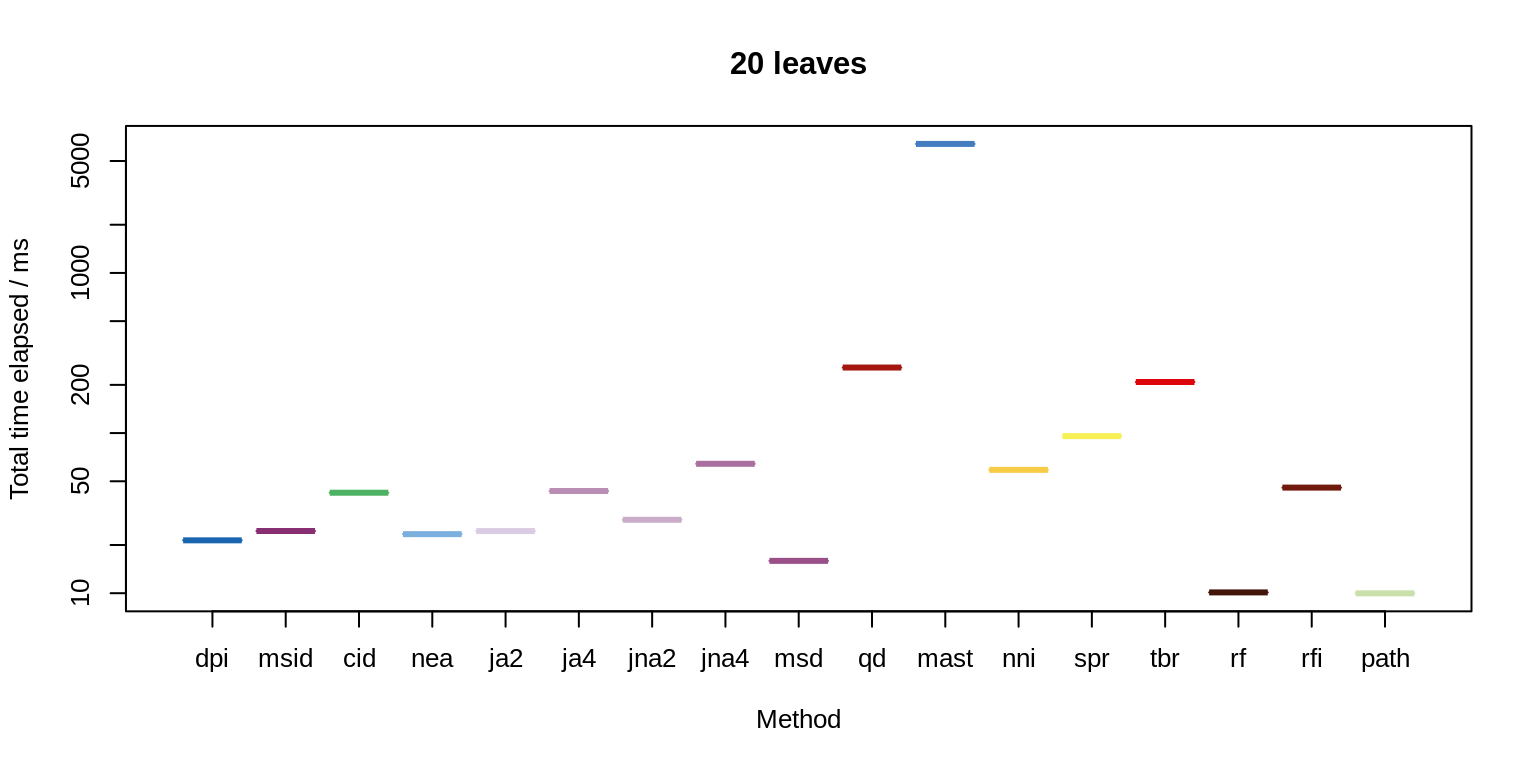
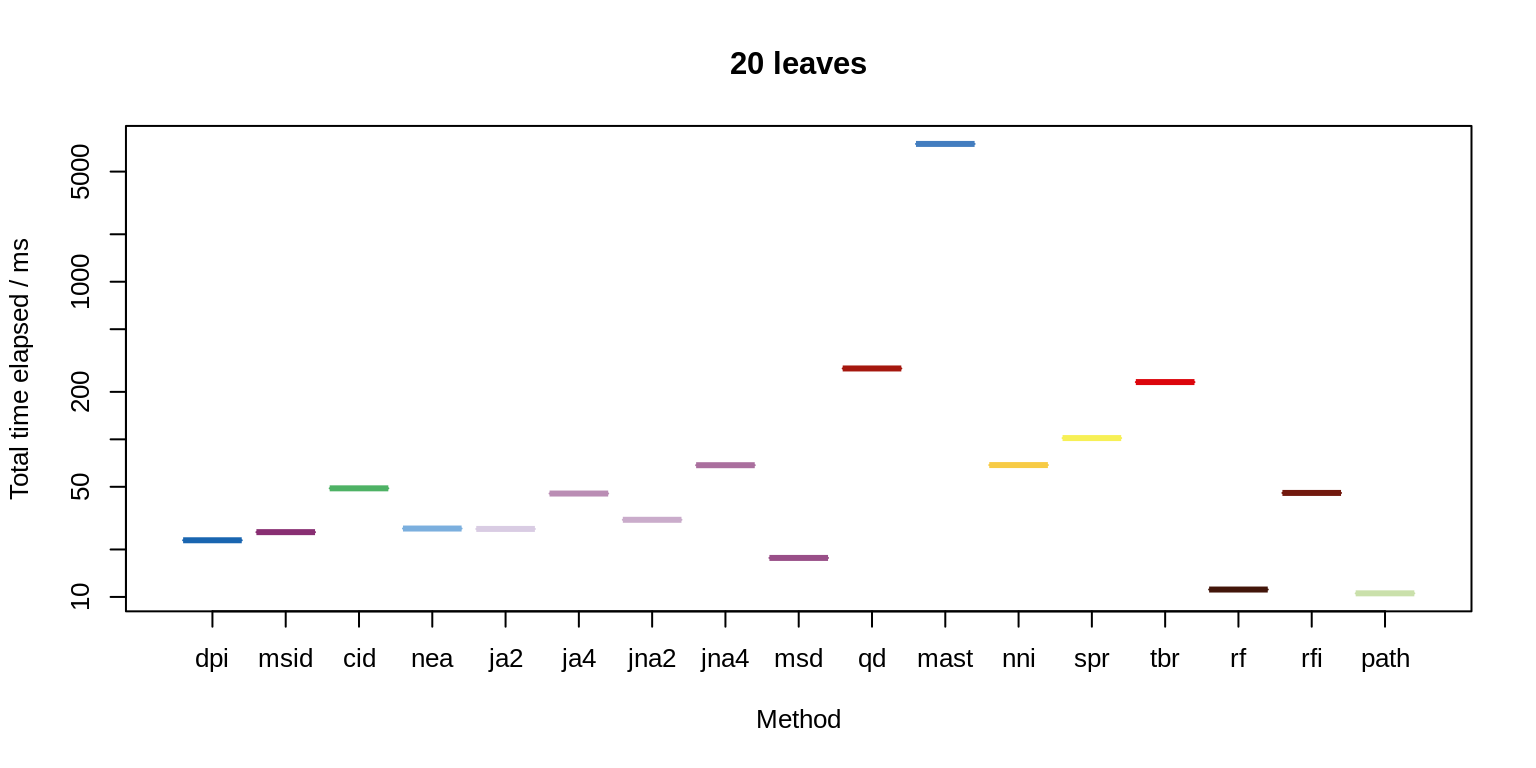
Built site for TreeDistData: 0.0.0.9008@70c4983

diff --git a/articles/10-timing.html b/articles/10-timing.html
@@ -119,7 +119,7 @@
                         <h4 class="author">Martin R. Smith <a href="mailto:martin.smith@durham.ac.uk">martin.smith@durham.ac.uk</a>
 </h4>
             
-            <h4 class="date">2020-03-03</h4>
+            <h4 class="date">2020-03-04</h4>
       
       <small class="dont-index">Source: <a href="https://github.com/ms609/TreeDistData/blob/master/vignettes/10-timing.Rmd"><code>vignettes/10-timing.Rmd</code></a></small>
       <div class="hidden name"><code>10-timing.Rmd</code></div>
@@ -150,88 +150,88 @@ The values reported in Smith <span class="citation">(2020)</span> were calculate
 <tbody>
 <tr class="odd">
 <td>Path</td>
-<td align="right">10</td>
-<td align="right">15</td>
+<td align="right">11</td>
+<td align="right">16</td>
 </tr>
 <tr class="even">
 <td>Robinson-Foulds</td>
-<td align="right">10</td>
+<td align="right">11</td>
 <td align="right">13</td>
 </tr>
 <tr class="odd">
 <td>Match. Split Dist.</td>
-<td align="right">16</td>
-<td align="right">46</td>
+<td align="right">18</td>
+<td align="right">48</td>
 </tr>
 <tr class="even">
 <td>Diff. Phylog. Info</td>
-<td align="right">22</td>
-<td align="right">84</td>
-</tr>
-<tr class="odd">
-<td>Nye et al.</td>
-<td align="right">24</td>
-<td align="right">140</td>
-</tr>
-<tr class="even">
-<td>JRF (k=2, arboreal)</td>
-<td align="right">25</td>
-<td align="right">120</td>
+<td align="right">23</td>
+<td align="right">91</td>
 </tr>
 <tr class="odd">
 <td>Match. Split Info Dist</td>
-<td align="right">25</td>
-<td align="right">150</td>
+<td align="right">26</td>
+<td align="right">160</td>
+</tr>
+<tr class="even">
+<td>JRF (k=2, arboreal)</td>
+<td align="right">27</td>
+<td align="right">130</td>
+</tr>
+<tr class="odd">
+<td>Nye et al.</td>
+<td align="right">27</td>
+<td align="right">140</td>
 </tr>
 <tr class="even">
 <td>JRF (k=2, non-arb.)</td>
-<td align="right">29</td>
+<td align="right">31</td>
 <td align="right">180</td>
 </tr>
 <tr class="odd">
-<td>Clust. Info. Dist.</td>
-<td align="right">43</td>
-<td align="right">260</td>
+<td>JRF (k=4, arboreal)</td>
+<td align="right">46</td>
+<td align="right">560</td>
 </tr>
 <tr class="even">
-<td>JRF (k=4, arboreal)</td>
-<td align="right">44</td>
-<td align="right">550</td>
-</tr>
-<tr class="odd">
 <td>Robinson-Foulds Info</td>
 <td align="right">46</td>
-<td align="right">130</td>
-</tr>
-<tr class="even">
-<td>NNI (approx.)</td>
-<td align="right">60</td>
-<td align="right">83</td>
+<td align="right">140</td>
 </tr>
 <tr class="odd">
+<td>Clust. Info. Dist.</td>
+<td align="right">49</td>
+<td align="right">270</td>
+</tr>
+<tr class="even">
 <td>JRF (k=4, non-arb.)</td>
-<td align="right">65</td>
-<td align="right">880</td>
+<td align="right">69</td>
+<td align="right">920</td>
+</tr>
+<tr class="odd">
+<td>NNI (approx.)</td>
+<td align="right">69</td>
+<td align="right">96</td>
 </tr>
 <tr class="even">
 <td>SPR (approx.)</td>
-<td align="right">97</td>
-<td align="right">790</td>
+<td align="right">100</td>
+<td align="right">800</td>
 </tr>
 <tr class="odd">
 <td>TBR (approx.)</td>
-<td align="right">210</td>
-<td align="right">360</td>
+<td align="right">230</td>
+<td align="right">380</td>
 </tr>
 <tr class="even">
 <td>Quartet</td>
-<td align="right">260</td>
-<td align="right">470</td>
+<td align="right">280</td>
+<td align="right">530</td>
 </tr>
 <tr class="odd">
 <td>MAST size</td>
-<td align="right">6500</td>
-<td align="right">26000</td>
+<td align="right">7600</td>
+<td align="right">29000</td>
 </tr>
 </tbody>
 </table>

diff --git a/articles/06-lin-cluster-recovery.html b/articles/06-lin-cluster-recovery.html
@@ -119,7 +119,7 @@
                         <h4 class="author">Martin R. Smith <a href="mailto:martin.smith@durham.ac.uk">martin.smith@durham.ac.uk</a>
 </h4>
             
-            <h4 class="date">2020-03-03</h4>
+            <h4 class="date">2020-03-04</h4>
       
       <small class="dont-index">Source: <a href="https://github.com/ms609/TreeDistData/blob/master/vignettes/06-lin-cluster-recovery.Rmd"><code>vignettes/06-lin-cluster-recovery.Rmd</code></a></small>
       <div class="hidden name"><code>06-lin-cluster-recovery.Rmd</code></div>

diff --git a/articles/04-saturation-and-sensitivity.html b/articles/04-saturation-and-sensitivity.html
@@ -118,7 +118,7 @@
       <h1>1.4, 1.5: Saturation and sensitivity</h1>
                         <h4 class="author">Martin R. Smith</h4>
             
-            <h4 class="date">2020-03-03</h4>
+            <h4 class="date">2020-03-04</h4>
       
       <small class="dont-index">Source: <a href="https://github.com/ms609/TreeDistData/blob/master/vignettes/04-saturation-and-sensitivity.Rmd"><code>vignettes/04-saturation-and-sensitivity.Rmd</code></a></small>
       <div class="hidden name"><code>04-saturation-and-sensitivity.Rmd</code></div>

diff --git a/articles/08-spr-walking.html b/articles/08-spr-walking.html
@@ -119,7 +119,7 @@
                         <h4 class="author">Martin R. Smith <a href="mailto:martin.smith@durham.ac.uk">martin.smith@durham.ac.uk</a>
 </h4>
             
-            <h4 class="date">2020-03-03</h4>
+            <h4 class="date">2020-03-04</h4>
       
       <small class="dont-index">Source: <a href="https://github.com/ms609/TreeDistData/blob/master/vignettes/08-spr-walking.Rmd"><code>vignettes/08-spr-walking.Rmd</code></a></small>
       <div class="hidden name"><code>08-spr-walking.Rmd</code></div>

diff --git a/articles/11-correlation.html b/articles/11-correlation.html
@@ -119,7 +119,7 @@
                         <h4 class="author">Martin R. Smith <a href="mailto:martin.smith@durham.ac.uk">martin.smith@durham.ac.uk</a>
 </h4>
             
-            <h4 class="date">2020-03-03</h4>
+            <h4 class="date">2020-03-04</h4>
       
       <small class="dont-index">Source: <a href="https://github.com/ms609/TreeDistData/blob/master/vignettes/11-correlation.Rmd"><code>vignettes/11-correlation.Rmd</code></a></small>
       <div class="hidden name"><code>11-correlation.Rmd</code></div>

diff --git a/articles/09-expected-similarity.html b/articles/09-expected-similarity.html
@@ -118,7 +118,7 @@
       <h1>2.2: Context tree distance values</h1>
                         <h4 class="author">Martin R. Smith</h4>
             
-            <h4 class="date">2020-03-03</h4>
+            <h4 class="date">2020-03-04</h4>
       
       <small class="dont-index">Source: <a href="https://github.com/ms609/TreeDistData/blob/master/vignettes/09-expected-similarity.Rmd"><code>vignettes/09-expected-similarity.Rmd</code></a></small>
       <div class="hidden name"><code>09-expected-similarity.Rmd</code></div>

diff --git a/articles/05-tree-shape.html b/articles/05-tree-shape.html
@@ -119,7 +119,7 @@
                         <h4 class="author">Martin R. Smith <a href="mailto:martin.smith@durham.ac.uk">martin.smith@durham.ac.uk</a>
 </h4>
             
-            <h4 class="date">2020-03-03</h4>
+            <h4 class="date">2020-03-04</h4>
       
       <small class="dont-index">Source: <a href="https://github.com/ms609/TreeDistData/blob/master/vignettes/05-tree-shape.Rmd"><code>vignettes/05-tree-shape.Rmd</code></a></small>
       <div class="hidden name"><code>05-tree-shape.Rmd</code></div>

diff --git a/articles/07-bullseye.html b/articles/07-bullseye.html
@@ -119,7 +119,7 @@
                         <h4 class="author">Martin R. Smith <a href="mailto:martin.smith@durham.ac.uk">martin.smith@durham.ac.uk</a>
 </h4>
             
-            <h4 class="date">2020-03-03</h4>
+            <h4 class="date">2020-03-04</h4>
       
       <small class="dont-index">Source: <a href="https://github.com/ms609/TreeDistData/blob/master/vignettes/07-bullseye.Rmd"><code>vignettes/07-bullseye.Rmd</code></a></small>
       <div class="hidden name"><code>07-bullseye.Rmd</code></div>

diff --git a/articles/02-leaves-moved.html b/articles/02-leaves-moved.html
@@ -118,7 +118,7 @@
       <h1>1.2: Number of leaves moved</h1>
                         <h4 class="author">Martin R. Smith</h4>
             
-            <h4 class="date">2020-03-03</h4>
+            <h4 class="date">2020-03-04</h4>
       
       <small class="dont-index">Source: <a href="https://github.com/ms609/TreeDistData/blob/master/vignettes/02-leaves-moved.Rmd"><code>vignettes/02-leaves-moved.Rmd</code></a></small>
       <div class="hidden name"><code>02-leaves-moved.Rmd</code></div>

diff --git a/articles/01-length-of-move.html b/articles/01-length-of-move.html
@@ -118,7 +118,7 @@
       <h1>1.1: Length of move</h1>
                         <h4 class="author">Martin R. Smith</h4>
             
-            <h4 class="date">2020-03-03</h4>
+            <h4 class="date">2020-03-04</h4>
       
       <small class="dont-index">Source: <a href="https://github.com/ms609/TreeDistData/blob/master/vignettes/01-length-of-move.Rmd"><code>vignettes/01-length-of-move.Rmd</code></a></small>
       <div class="hidden name"><code>01-length-of-move.Rmd</code></div>

diff --git a/articles/03-moves-made.html b/articles/03-moves-made.html
@@ -118,7 +118,7 @@
       <h1>1.3: Number of moves made</h1>
                         <h4 class="author">Martin R. Smith</h4>
             
-            <h4 class="date">2020-03-03</h4>
+            <h4 class="date">2020-03-04</h4>
       
       <small class="dont-index">Source: <a href="https://github.com/ms609/TreeDistData/blob/master/vignettes/03-moves-made.Rmd"><code>vignettes/03-moves-made.Rmd</code></a></small>
       <div class="hidden name"><code>03-moves-made.Rmd</code></div>

diff --git a/articles/X-heterogeneity.html b/articles/X-heterogeneity.html
@@ -118,7 +118,7 @@
       <h1>Heterogeneity</h1>
                         <h4 class="author">Martin R. Smith</h4>
             
-            <h4 class="date">2020-03-03</h4>
+            <h4 class="date">2020-03-04</h4>
       
       <small class="dont-index">Source: <a href="https://github.com/ms609/TreeDistData/blob/master/vignettes/X-heterogeneity.Rmd"><code>vignettes/X-heterogeneity.Rmd</code></a></small>
       <div class="hidden name"><code>X-heterogeneity.Rmd</code></div>
